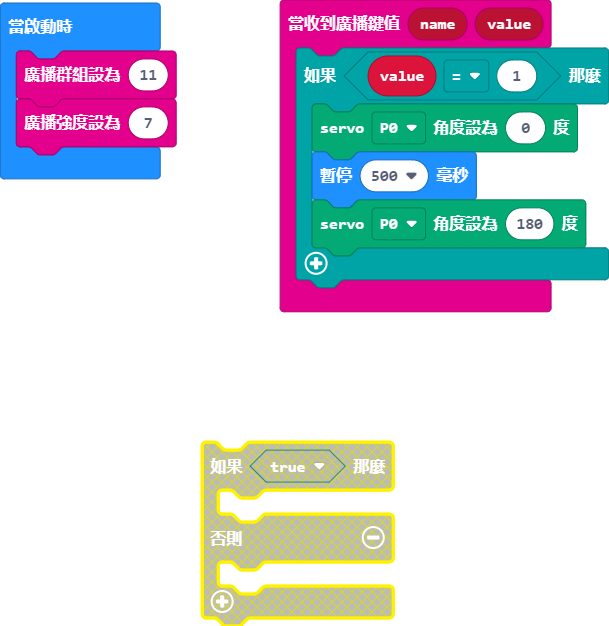
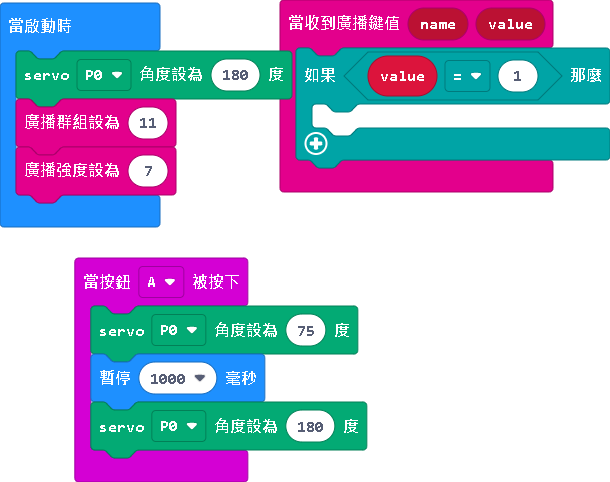
更新 main.blocks, main.ts

diff --git a/main.ts b/main.ts
@@ -1,9 +1,13 @@
+input.onButtonPressed(Button.A, function () {
+    servos.P0.setAngle(75)
+    basic.pause(1000)
+    servos.P0.setAngle(180)
+})
 radio.onReceivedValue(function (name, value) {
     if (value == 1) {
-        servos.P0.setAngle(0)
-        basic.pause(500)
-        servos.P0.setAngle(180)
+    	
     }
 })
+servos.P0.setAngle(180)
 radio.setGroup(11)
 radio.setTransmitPower(7)
